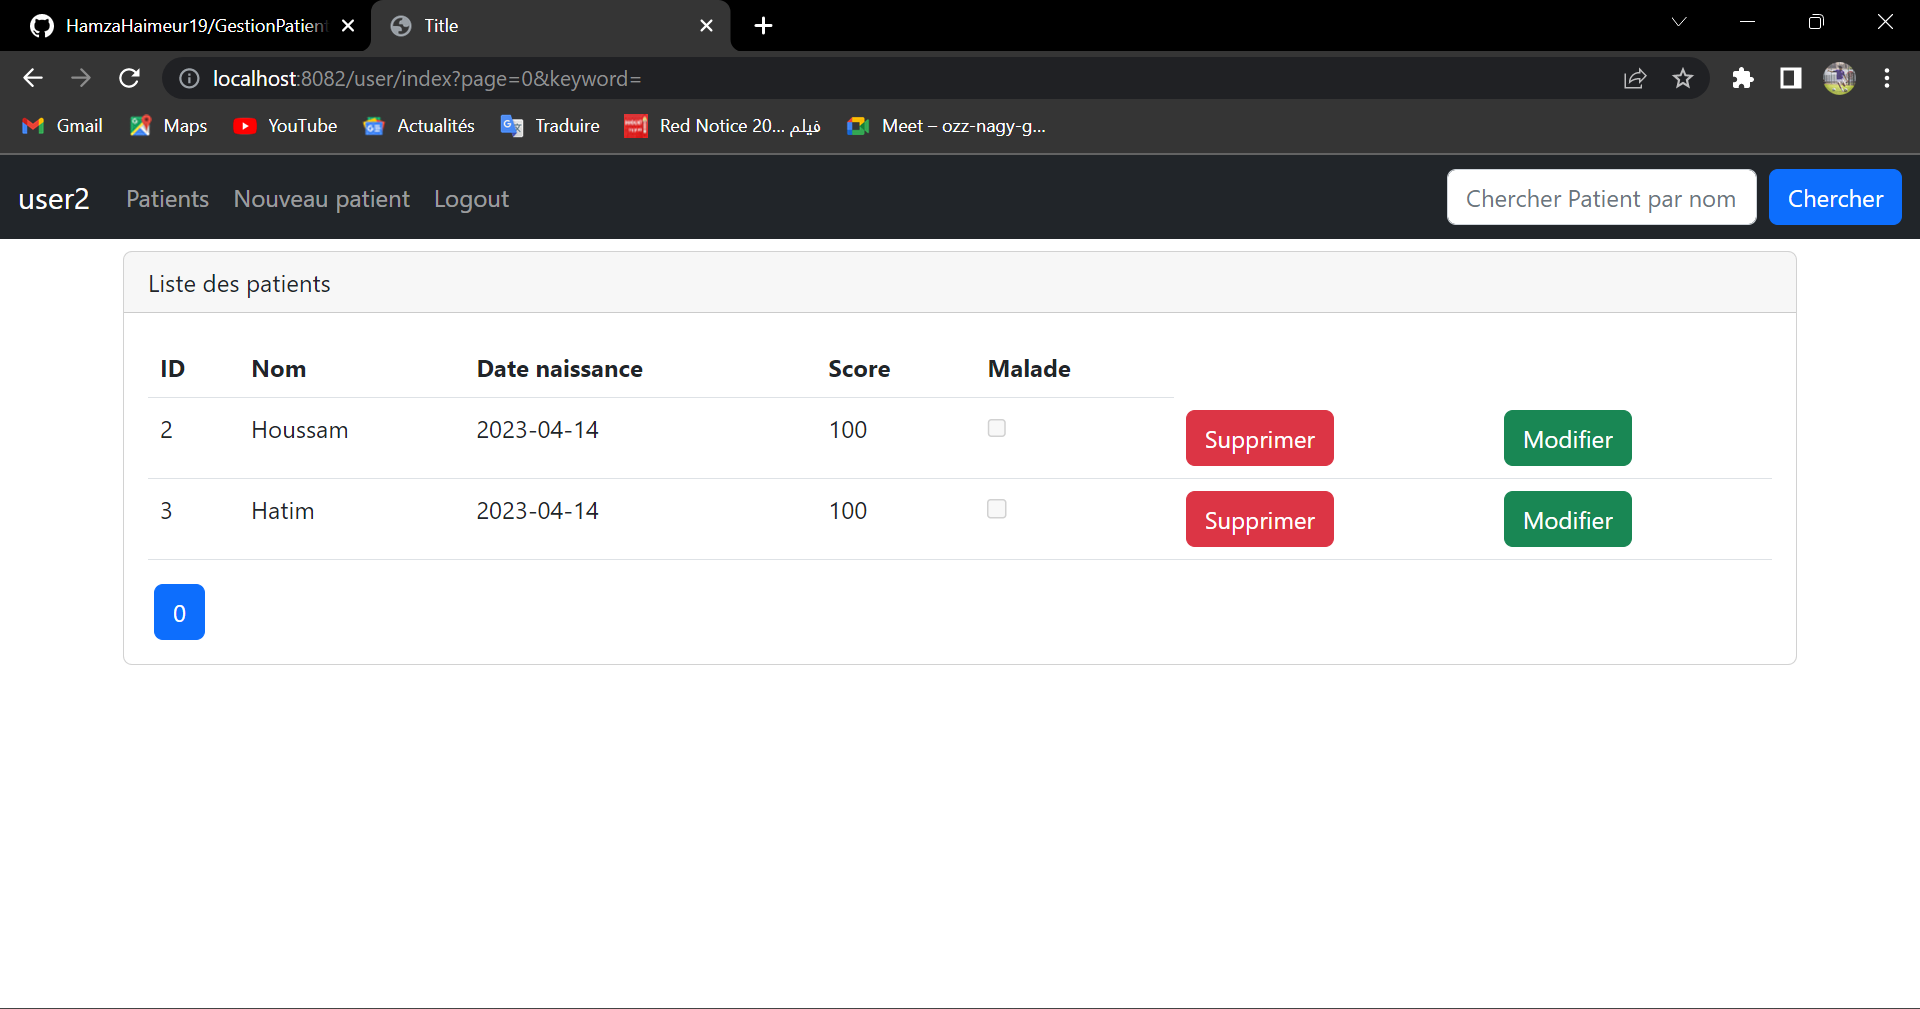
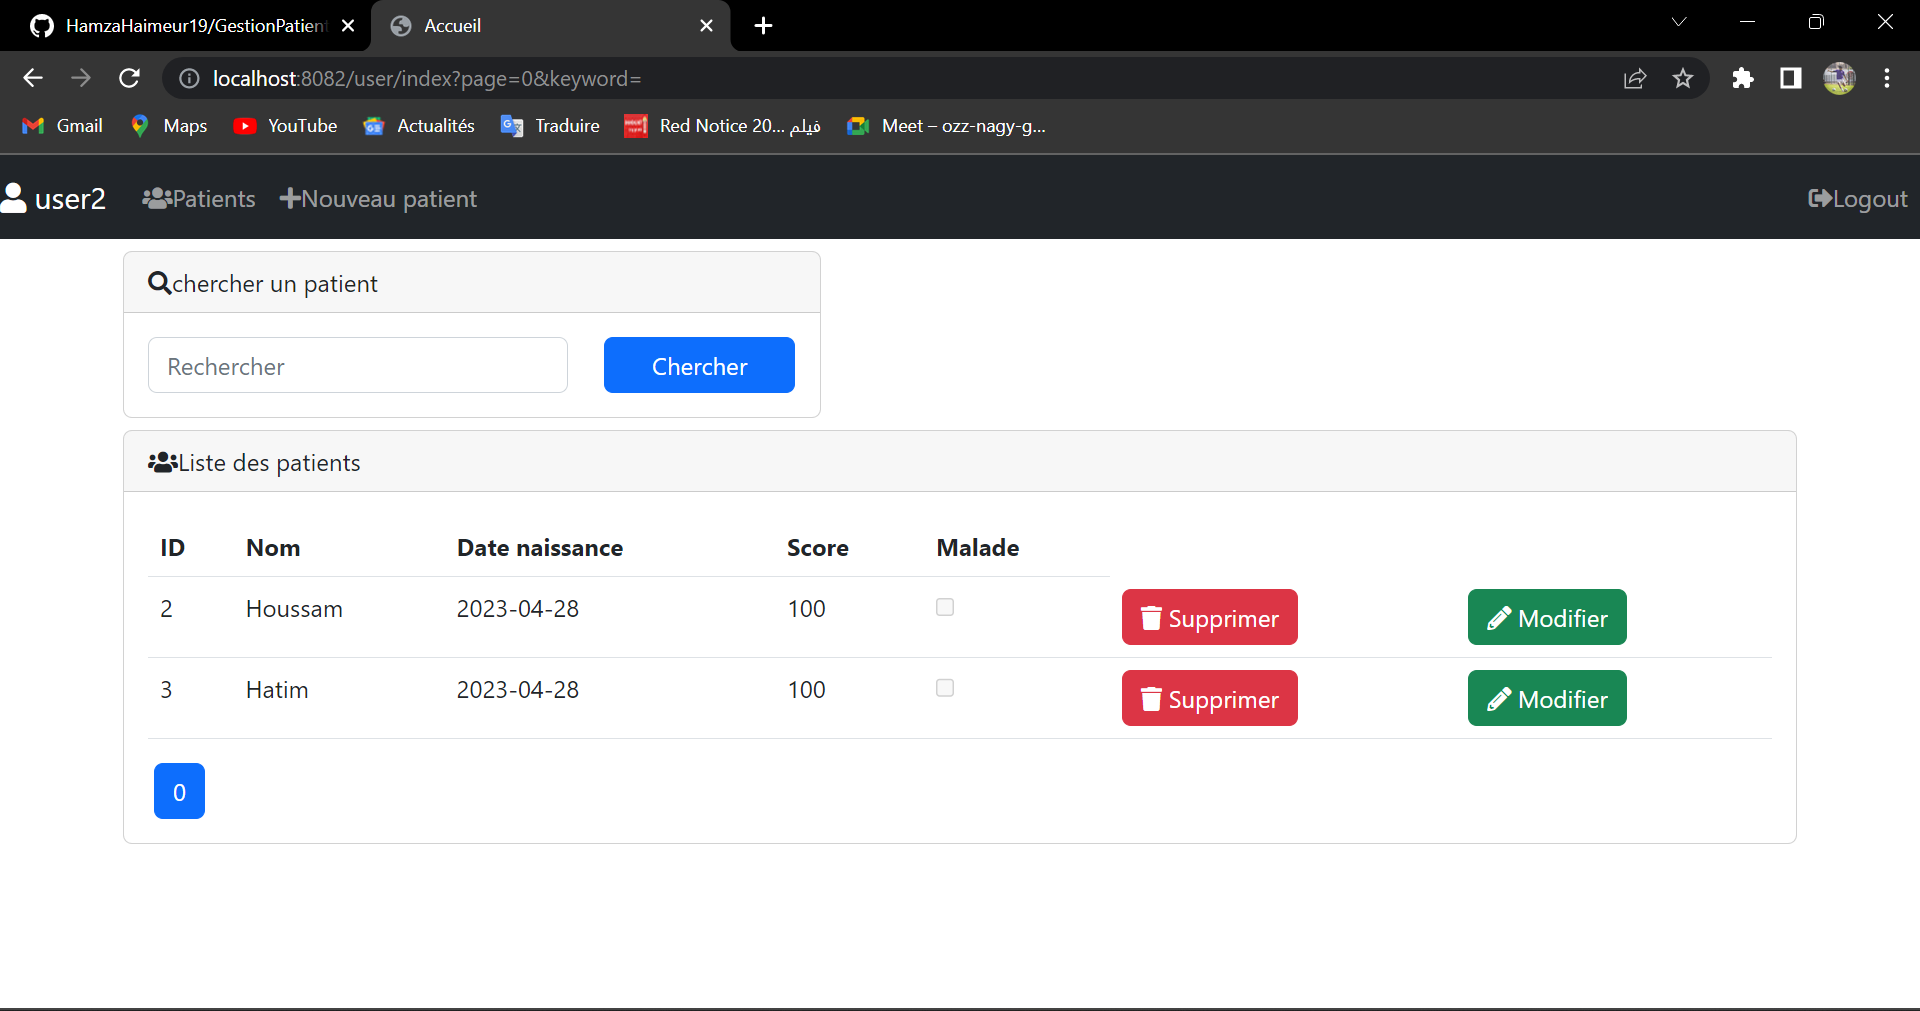
changes

diff --git a/src/main/resources/templates/template1.html b/src/main/resources/templates/template1.html
@@ -8,32 +8,36 @@
     <title>Title</title>
     <link rel="stylesheet" type="text/css" href="webjars/bootstrap/5.2.3/css/bootstrap.min.css"/>
     <script src="webjars/bootstrap/5.2.3/js/bootstrap.bundle.js"></script>
+    <link rel="stylesheet" href="https://cdnjs.cloudflare.com/ajax/libs/font-awesome/5.15.3/css/all.min.css"/>
 </head>
 <body>
 <nav class="navbar navbar-expand-sm navbar-dark bg-dark">
-    <div class="container-fluid">
-        <a class="navbar-brand" sec:authentication="name"></a>
-        <button class="navbar-toggler" type="button" data-bs-toggle="collapse" data-bs-target="#mynavbar">
-            <span class="navbar-toggler-icon"></span>
-        </button>
-        <div class="collapse navbar-collapse" id="mynavbar">
-            <ul class="navbar-nav me-auto">
+    <a class="navbar-brand" href="#">
+        <span class="fas fa-user"></span>
+        <span sec:authentication="name"></span>
+    </a>
+    <button class="navbar-toggler" type="button" data-bs-toggle="collapse" data-bs-target="#mynavbar">
+        <span class="navbar-toggler-icon"></span>
+    </button>
+    <div class="collapse navbar-collapse" id="mynavbar">
+        <ul class="navbar-nav me-auto">
+            <li class="nav-item">
+                <a class="nav-link" th:href="@{/user/index}"><i class="fas fa-users"></i>Patients</a>
+            </li>
+            <li class="nav-item">
+                <a class="nav-link" sec:authorize="hasRole('ADMIN')" th:href="@{/admin/formPatients}"><i
+                        class="fa fa-plus"></i>Nouveau
+                    patient</a>
+            </li>
+        </ul>
+        <div class=" ms-auto">
+            <ul class="navbar-nav">
                 <li class="nav-item">
-                    <a class="nav-link" th:href="@{/user/index}">Patients</a>
-                </li>
-                <li class="nav-item">
-                    <a class="nav-link" sec:authorize="hasRole('ADMIN')" th:href="@{/admin/formPatients}">Nouveau patient</a>
-                </li>
-                <li class="nav-item">
-                    <a class="nav-link" th:href="@{/logout}">Logout</a>
+                    <a class="nav-link" th:href="@{/logout}"><i class="fas fa-sign-out-alt"></i>Logout</a>
                 </li>
             </ul>
-            <form class="d-flex" method="get" th:action="@{/user/index}">
-                <input class="form-control me-2" type="text" placeholder="Chercher Patient par nom"
-                       name="keyword" th:value="${keyword}">
-                <button class="btn btn-primary" type="submit">Chercher</button>
-            </form>
         </div>
+    </div>
     </div>
 </nav>
 

diff --git a/src/main/resources/templates/patients.html b/src/main/resources/templates/patients.html
@@ -7,14 +7,31 @@
 >
 <head>
     <meta charset="UTF-8">
-    <title>Title</title>
+    <title>Accueil</title>
     <link rel="stylesheet" href="/webjars/bootstrap/5.2.3/css/bootstrap.min.css">
+    <link rel="stylesheet" href="https://cdnjs.cloudflare.com/ajax/libs/font-awesome/5.15.3/css/all.min.css"/>
 </head>
 <body>
 <div layout:fragment="content1">
     <div class="container mt-2">
+        <div class="card col-sm-5">
+            <div class="card-header"><i class="fas fa-search"></i>chercher un patient</div>
+            <div class="card-body">
+                <form class="row" method="get" th:action="@{/user/index}">
+                    <div class="col-md-8">
+                        <input class="form-control" type="text" placeholder="Rechercher" name="keyword"
+                               th:value="${keyword}">
+                    </div>
+                    <div class="col-md-4">
+                        <button class="btn btn-primary w-100" type="submit">Chercher</button>
+                    </div>
+                </form>
+            </div>
+        </div>
+    </div>
+    <div class="container mt-2">
         <div class="card">
-            <div class="card-header">Liste des patients</div>
+            <div class="card-header"><i class="fas fa-users"></i>Liste des patients</div>
             <div class="card-body">
                 <table class="table">
                     <tr>
@@ -32,13 +49,15 @@
                         <td><input disabled type="checkbox" name="malade" th:checked="${p.malade}"></td>
                         <td sec:authorize="hasRole('ADMIN')">
                             <a onclick="return confirm('Etes vous sur de vouloir supprimer?')" class="btn btn-danger"
-                               th:href="@{/admin/delete(id=${p.id}, keyword=${keyword}, page=${currentPage})}">
+                               th:href="@{/admin/delete(id=${p.id}, keyword=${keyword}, page=${currentPage})}"><i
+                                    class="fas fa-trash"></i>
                                 Supprimer
                             </a>
                         </td>
                         <td sec:authorize="hasRole('ADMIN')">
                             <a class="btn btn-success"
-                               th:href="@{/admin/editPatient(id=${p.id}, keyword=${keyword}, page=${currentPage})}">
+                               th:href="@{/admin/editPatient(id=${p.id}, keyword=${keyword}, page=${currentPage})}"><i
+                                    class="fas fa-pencil-alt"></i>
                                 Modifier
                             </a>
                         </td>

diff --git a/src/main/resources/templates/editPatient.html b/src/main/resources/templates/editPatient.html
@@ -13,7 +13,7 @@
 <div layout:fragment="content1">
     <div class="container mt-2">
         <div class="card">
-            <div class="card-header">formulaire de modification</div>
+            <div class="card-header"><i class="fas fa-pencil-alt"></i>formulaire de modification</div>
             <div class="card-body">
                 <div class="col-md-6 offset-3">
                     <form method="post" th:action="@{save(page=${page}, keyword=${keyword})}">

diff --git a/src/main/resources/templates/formPatients.html b/src/main/resources/templates/formPatients.html
@@ -13,7 +13,7 @@
 <div layout:fragment="content1">
     <div class="container mt-2">
         <div class="card">
-            <div class="card-header">formulaire d'ajout</div>
+            <div class="card-header"><i class="fa fa-plus"></i>formulaire d'ajout</div>
             <div class="card-body">
                 <div class="col-md-6 offset-3">
                     <form method="post" th:action="@{save}">

diff --git a/README.md b/README.md
@@ -50,14 +50,14 @@
 <img src="images/utilisateur.png" />
 
 <p>Chercher patient</p>
-<img src="images/Utilisateur2.png" />
+<img src="images/Chercher.png" />
 
 <p>Se deconnecter</p>
 <img src="images/Logout1.png" />
 <img src="images/Logout2.png">
 
 <p>Administrateur accueil</p>
-<img src="images/Admin1.png"/>
+<img src="images/Utilisateur2.png"/>
 
 <p>Supprimer</p>
 <img src="images/AdminSupprimer1.png">
@@ -70,3 +70,6 @@
 <p>Ajouter</p>
 <img src="images/Ajouter1.png">
 <img src="images/Ajouter2.png">
+
+<p>Non autorisé si essayer d'acceder sans role</p>
+<img src="images/NoAuthorized.png">
